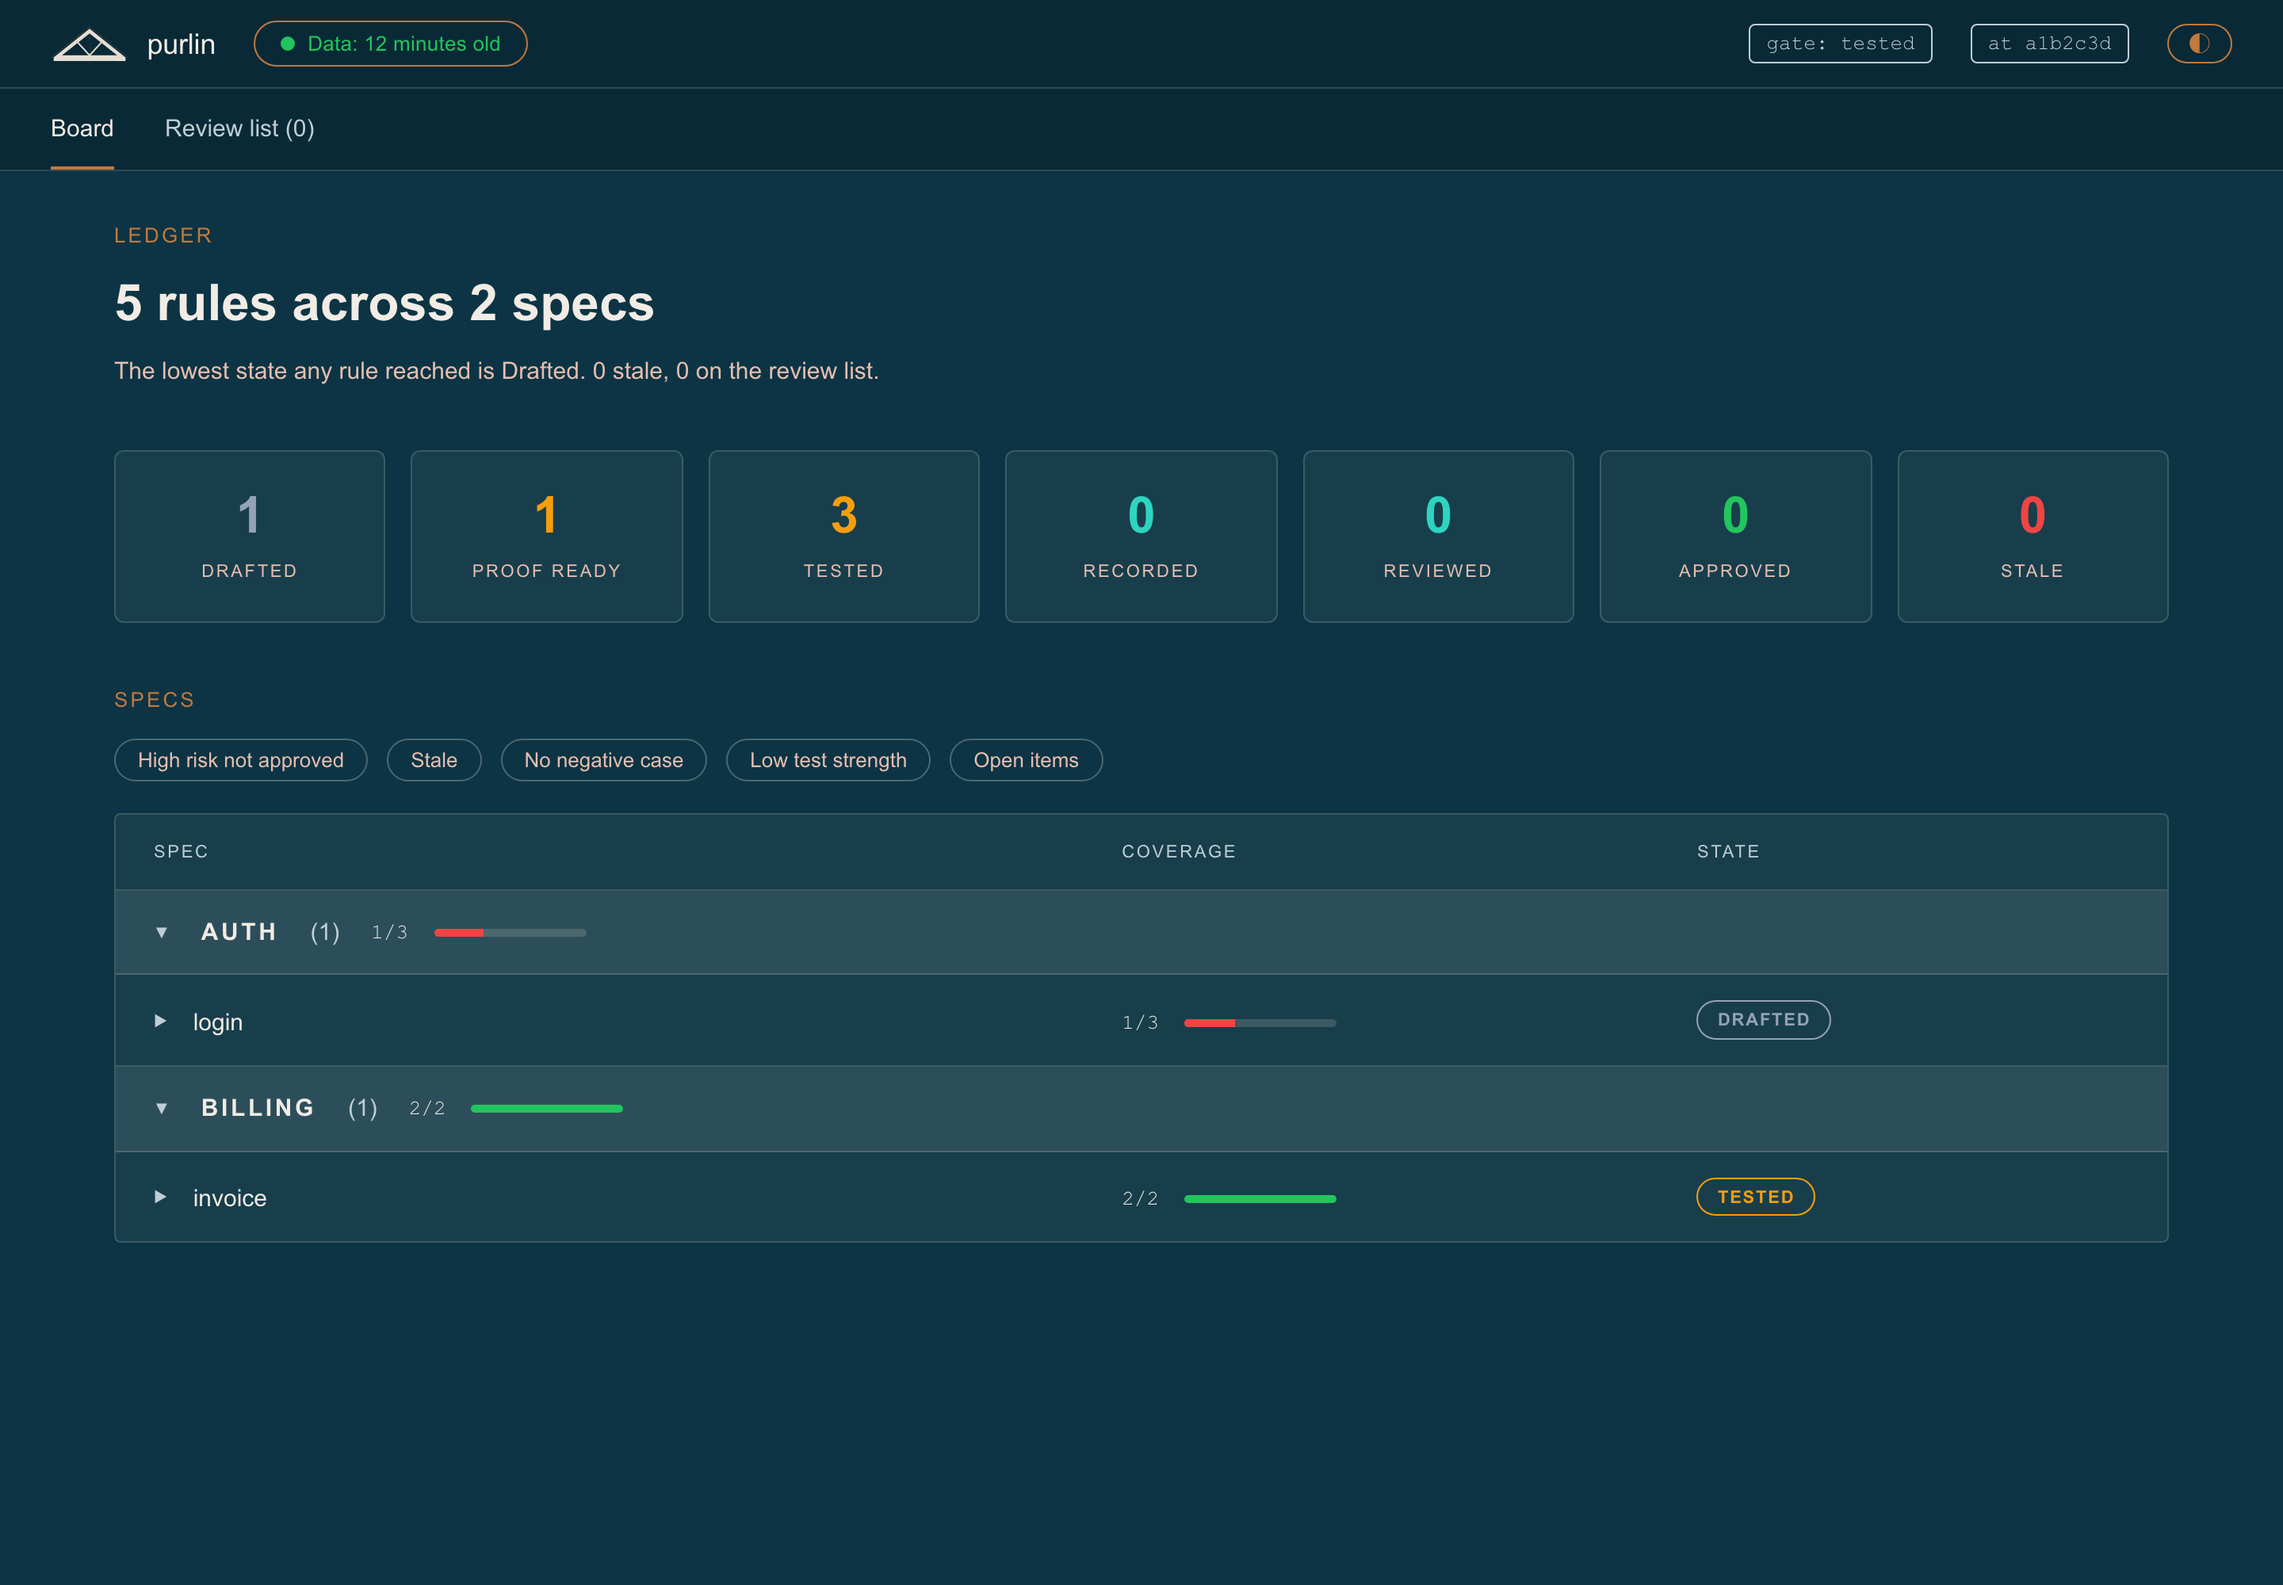
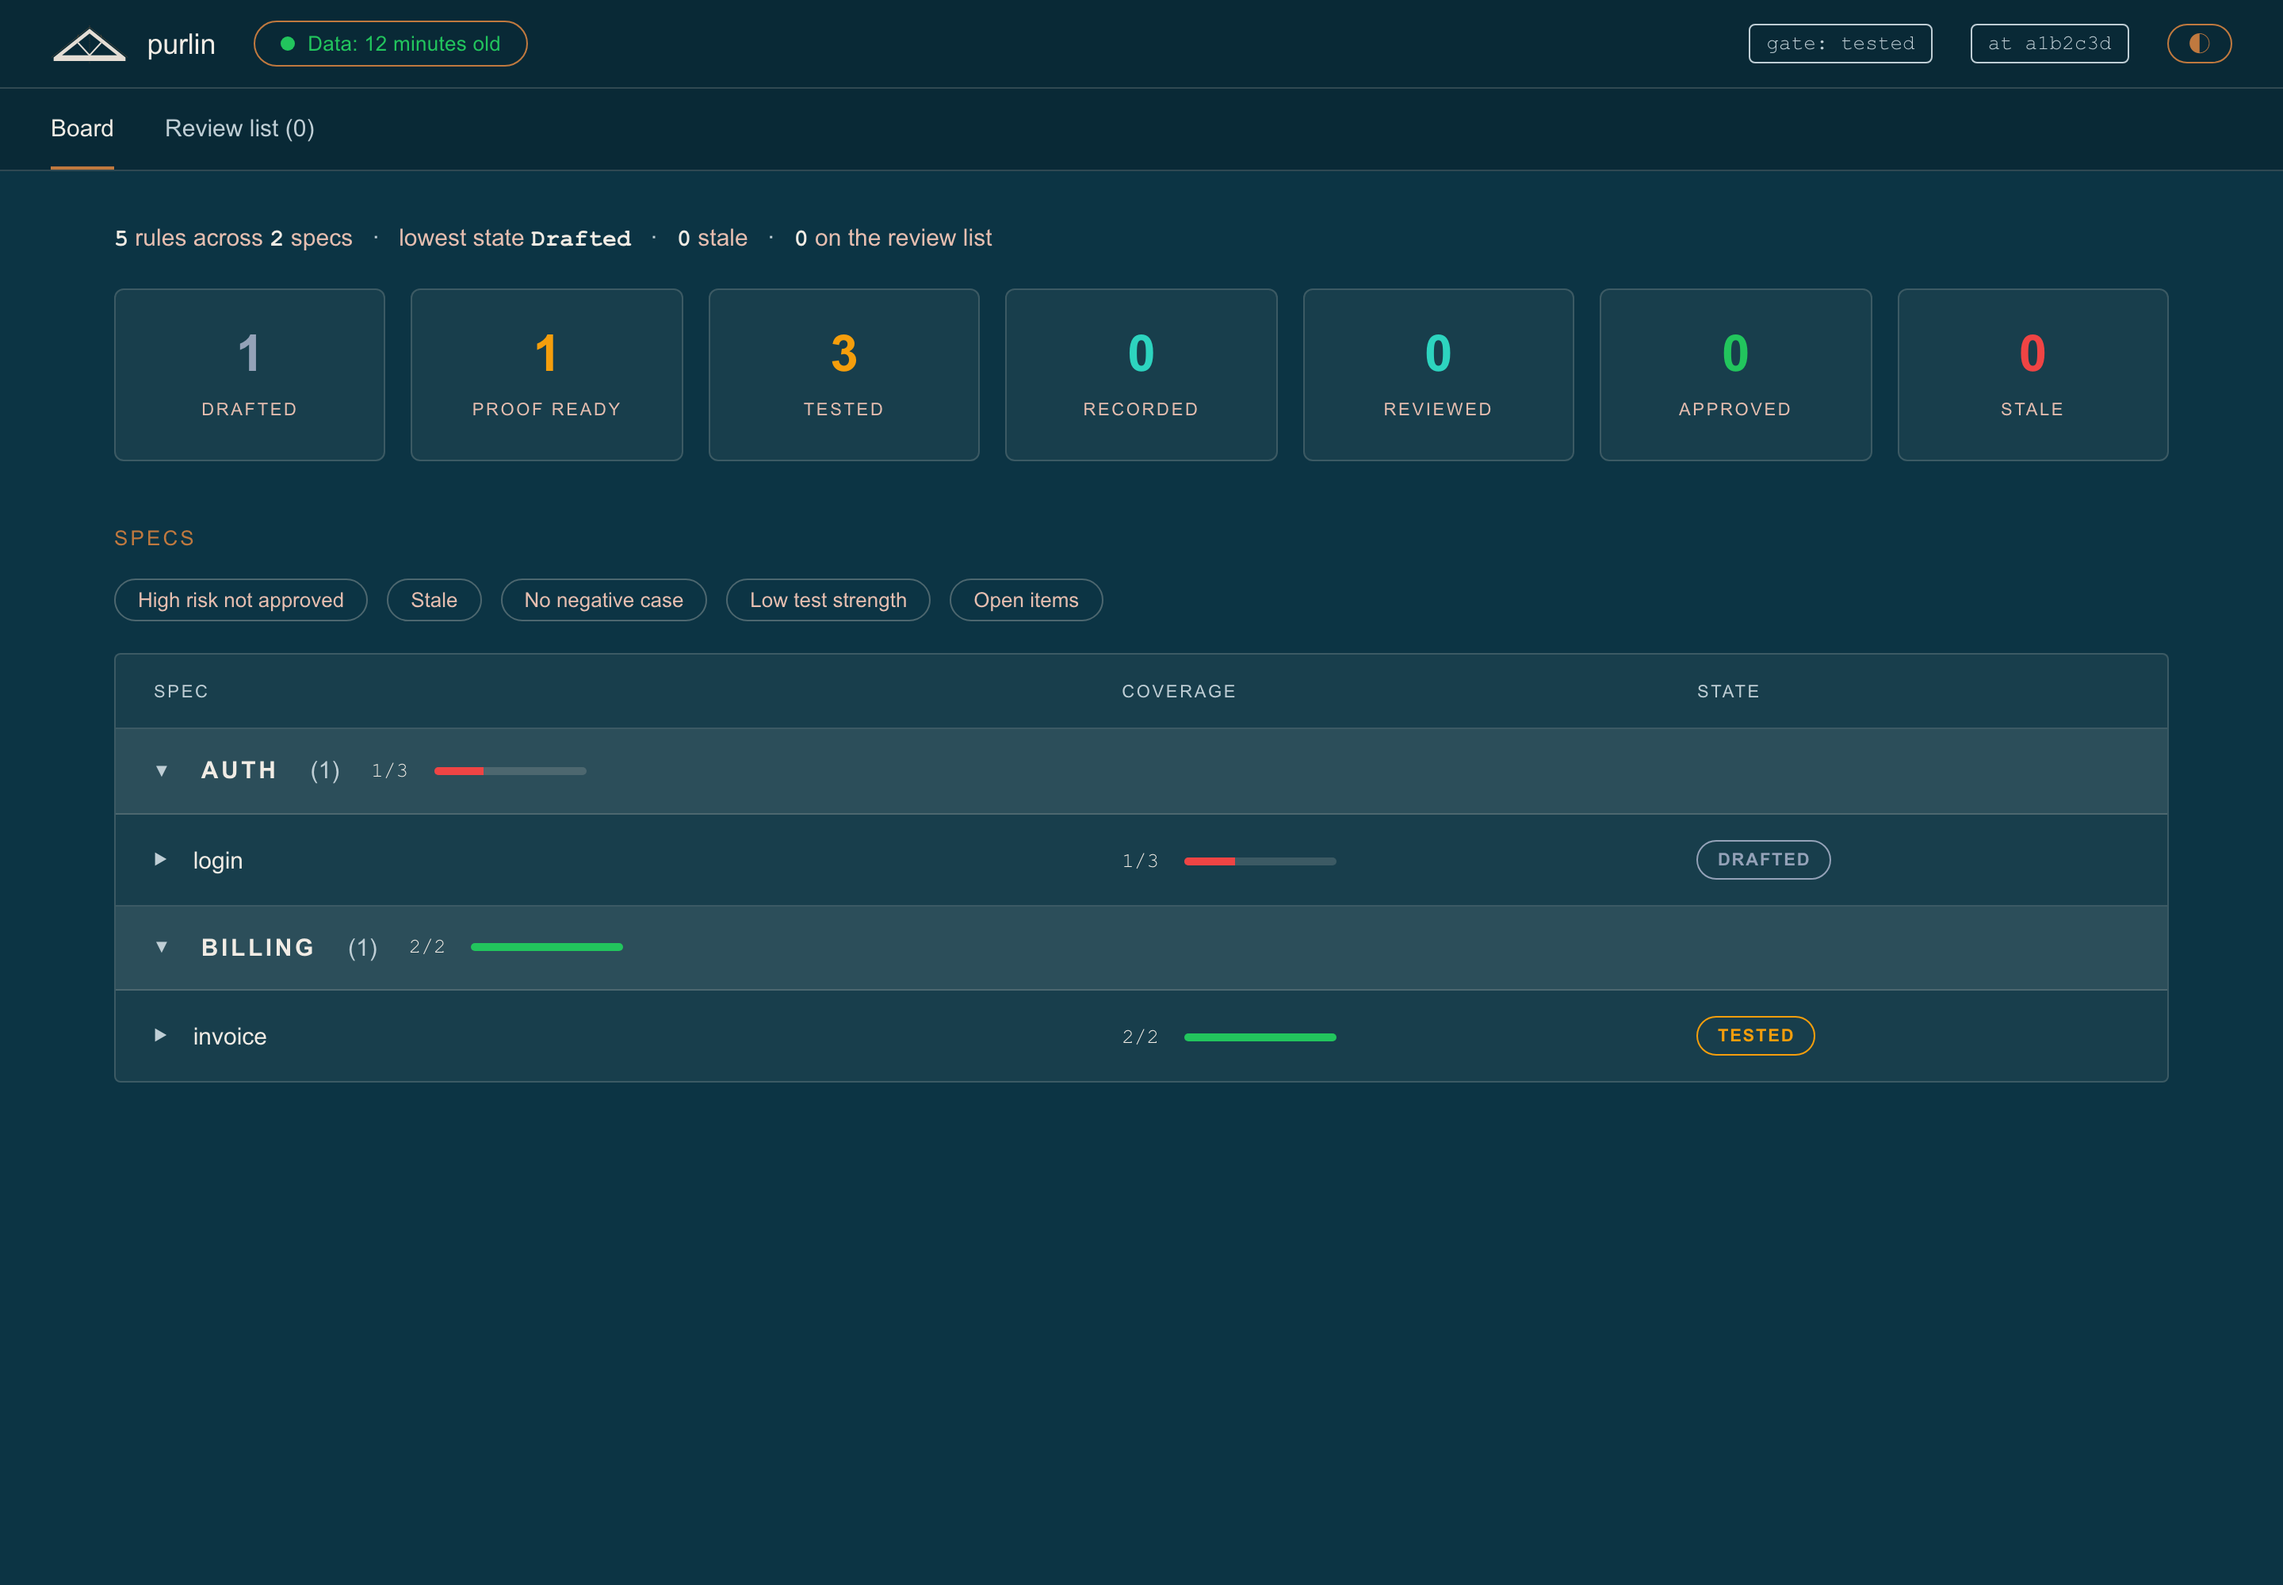
feat(purlin_report): the ledger is one line
Claude-Session: https://claude.ai/code/session_01PA1RaoK77G1rNdVdQbavg6

diff --git a/scripts/report/purlin-report.html b/scripts/report/purlin-report.html
@@ -216,6 +216,10 @@ button{font-family:inherit}
 .tabs button[aria-current="page"]{color:var(--text-primary);border-bottom-color:var(--accent)}
 .wrap{max-width:1360px;margin:0 auto;padding:var(--space-8)}
 section{margin-bottom:var(--space-10)}
+section.ledger{margin-bottom:var(--space-5)}
+.line{margin:0;font-size:var(--ui-base);color:var(--text-secondary)}
+.line b{font-family:var(--font-mono);font-weight:var(--weight-bold);color:var(--text-primary)}
+.sep{color:var(--text-muted);padding:0 var(--space-3)}
 .eyebrow{font-size:var(--ui-sm);letter-spacing:var(--tracking-label);text-transform:uppercase;color:var(--text-accent);margin:0 0 var(--space-4)}
 h1{font-size:var(--ui-metric);font-weight:var(--weight-bold);margin:0 0 var(--space-3);line-height:1.1}
 h2{font-size:var(--ui-lg);font-weight:var(--weight-bold);margin:0 0 var(--space-4)}
@@ -503,13 +507,15 @@ function renderBoard() {
     groups[name].push(feature);
   });
   var rollup = DATA.project_rollup || {};
-  var head = '<section><p class="eyebrow">' + esc(DATA.project || 'project')
-    + '</p><h1>' + (rollup.rules || 0) + ' rules across '
-    + (rollup.features || 0) + ' specs</h1>'
-    + '<p class="sec">The lowest state any rule reached is '
-    + esc(rollup.lowest_state || 'Drafted') + '. ' + (rollup.stale || 0)
-    + ' stale, ' + (rollup.needs_review || 0) + ' on the review list.</p>'
-    + '</section><section>' + statStrip() + '</section>';
+  var head = '<section class="ledger"><p class="line">'
+    + '<b>' + (rollup.rules || 0) + '</b> rules across <b>'
+    + (rollup.features || 0) + '</b> specs'
+    + '<span class="sep">·</span>lowest state <b>'
+    + esc(rollup.lowest_state || 'Drafted') + '</b>'
+    + '<span class="sep">·</span><b>' + (rollup.stale || 0) + '</b> stale'
+    + '<span class="sep">·</span><b>' + (rollup.needs_review || 0)
+    + '</b> on the review list</p></section><section>' + statStrip()
+    + '</section>';
   var table = order.length
     ? '<div class="tbl" style="--cols:' + columns.map(function (c) {
         return c.width;

diff --git a/scripts/report/src/board.js b/scripts/report/src/board.js
@@ -142,13 +142,15 @@ function renderBoard() {
     groups[name].push(feature);
   });
   var rollup = DATA.project_rollup || {};
-  var head = '<section><p class="eyebrow">' + esc(DATA.project || 'project')
-    + '</p><h1>' + (rollup.rules || 0) + ' rules across '
-    + (rollup.features || 0) + ' specs</h1>'
-    + '<p class="sec">The lowest state any rule reached is '
-    + esc(rollup.lowest_state || 'Drafted') + '. ' + (rollup.stale || 0)
-    + ' stale, ' + (rollup.needs_review || 0) + ' on the review list.</p>'
-    + '</section><section>' + statStrip() + '</section>';
+  var head = '<section class="ledger"><p class="line">'
+    + '<b>' + (rollup.rules || 0) + '</b> rules across <b>'
+    + (rollup.features || 0) + '</b> specs'
+    + '<span class="sep">·</span>lowest state <b>'
+    + esc(rollup.lowest_state || 'Drafted') + '</b>'
+    + '<span class="sep">·</span><b>' + (rollup.stale || 0) + '</b> stale'
+    + '<span class="sep">·</span><b>' + (rollup.needs_review || 0)
+    + '</b> on the review list</p></section><section>' + statStrip()
+    + '</section>';
   var table = order.length
     ? '<div class="tbl" style="--cols:' + columns.map(function (c) {
         return c.width;

diff --git a/scripts/report/src/styles.css b/scripts/report/src/styles.css
@@ -17,6 +17,10 @@ button{font-family:inherit}
 .tabs button[aria-current="page"]{color:var(--text-primary);border-bottom-color:var(--accent)}
 .wrap{max-width:1360px;margin:0 auto;padding:var(--space-8)}
 section{margin-bottom:var(--space-10)}
+section.ledger{margin-bottom:var(--space-5)}
+.line{margin:0;font-size:var(--ui-base);color:var(--text-secondary)}
+.line b{font-family:var(--font-mono);font-weight:var(--weight-bold);color:var(--text-primary)}
+.sep{color:var(--text-muted);padding:0 var(--space-3)}
 
 /* --- shared marks ---------------------------------------------------- */
 .eyebrow{font-size:var(--ui-sm);letter-spacing:var(--tracking-label);text-transform:uppercase;color:var(--text-accent);margin:0 0 var(--space-4)}
